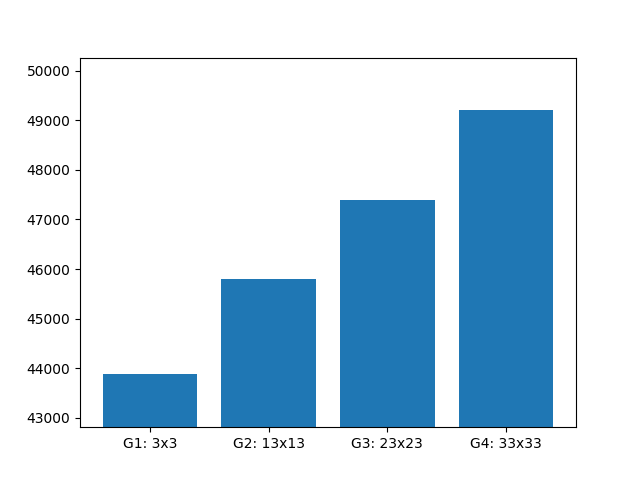
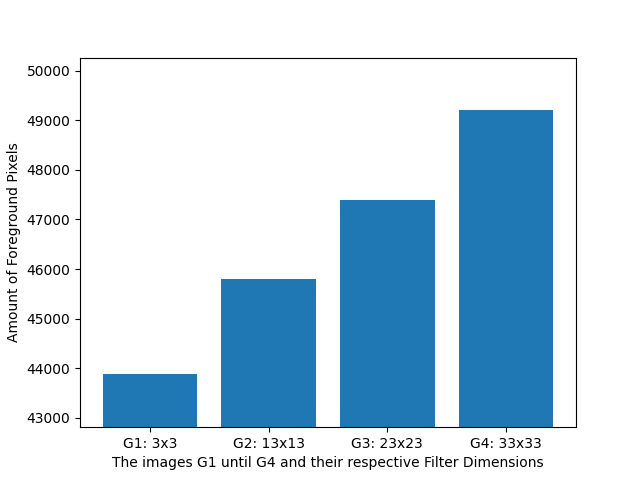
QOL

Changed region(s): [[0.1875, 0.9375, 0.8438, 1.0], [0.0, 0.2812, 0.0312, 0.7188]]

diff --git a/quickAnalyser.py b/quickAnalyser.py
@@ -68,15 +68,17 @@ def plot_task3():
     
     plt.bar(sizes, H)
     plt.ylim([min(H) - 0.20 * (max(H) - min(H)), max(H) + 0.20 * (max(H) - min(H))])
+    plt.ylabel("Amount of Foreground Pixels")
+    plt.xlabel("The images G1 until G4 and their respective Filter Dimensions")
     if not (os.path.exists(task3_plot_dir)): os.mkdir(task3_plot_dir)
     plt.savefig(os.path.join(task3_plot_dir, "foreground_pixels_over_filter_size.png"))
 
 # Loading animationf or terminal, just a quality of life feature
-def loading_animation():
+def loading_animation(loadingMsg : str):
     global task
     while not doneLoading:
         for i in range(1, 4):
-            print('\r' + f"{task} is being executed" + "." * i, end="", flush=True)
+            print('\r' + loadingMsg + "." * i, end="", flush=True)
             time.sleep(1)
         print("\33[2K\r", end="");
 
@@ -89,7 +91,7 @@ if __name__ == "__main__":
     else:
         if not noRun: 
             print(f"\033[33mRunning code for {task}, this can take a bit\033[0m")
-            t = threading.Thread(target=loading_animation)
+            t = threading.Thread(target=loading_animation, args=(f"{task} is being executed",))
             doneLoading = False
             t.start()
             subprocess.call([exe_dir, task])
@@ -99,10 +101,31 @@ if __name__ == "__main__":
 
 
         if (task == "task1") and plotData:
+            print(f"\033[33mPlotting data for {task}, this can take a bit\033[0m")
+            t = threading.Thread(target=loading_animation, args=(f"{task} is being analysed and plotted",))
+            doneLoading = False
+            t.start()
             plot_task1()
+            doneLoading = True
+            t.join();
+            print(f"\033[32mDone analysing {task}!\033[0m")
         elif task == "task2" and plotData:
+            print(f"\033[33mPlotting data for {task}, this can take a bit\033[0m")
+            t = threading.Thread(target=loading_animation, args=(f"{task} is being analysed and plotted",))
+            doneLoading = False
+            t.start()
             plot_task2()
+            doneLoading = True
+            t.join();
+            print(f"\033[32mDone analysing {task}!\033[0m")
         elif task == "task3" and plotData:
+            print(f"\033[33mPlotting data for {task}, this can take a bit\033[0m")
+            t = threading.Thread(target=loading_animation, args=(f"{task} is being analysed and plotted",))
+            doneLoading = False
+            t.start()
             plot_task3()
+            doneLoading = True
+            t.join();
+            print(f"\033[32mDone analysing {task}!\033[0m")
             
 
